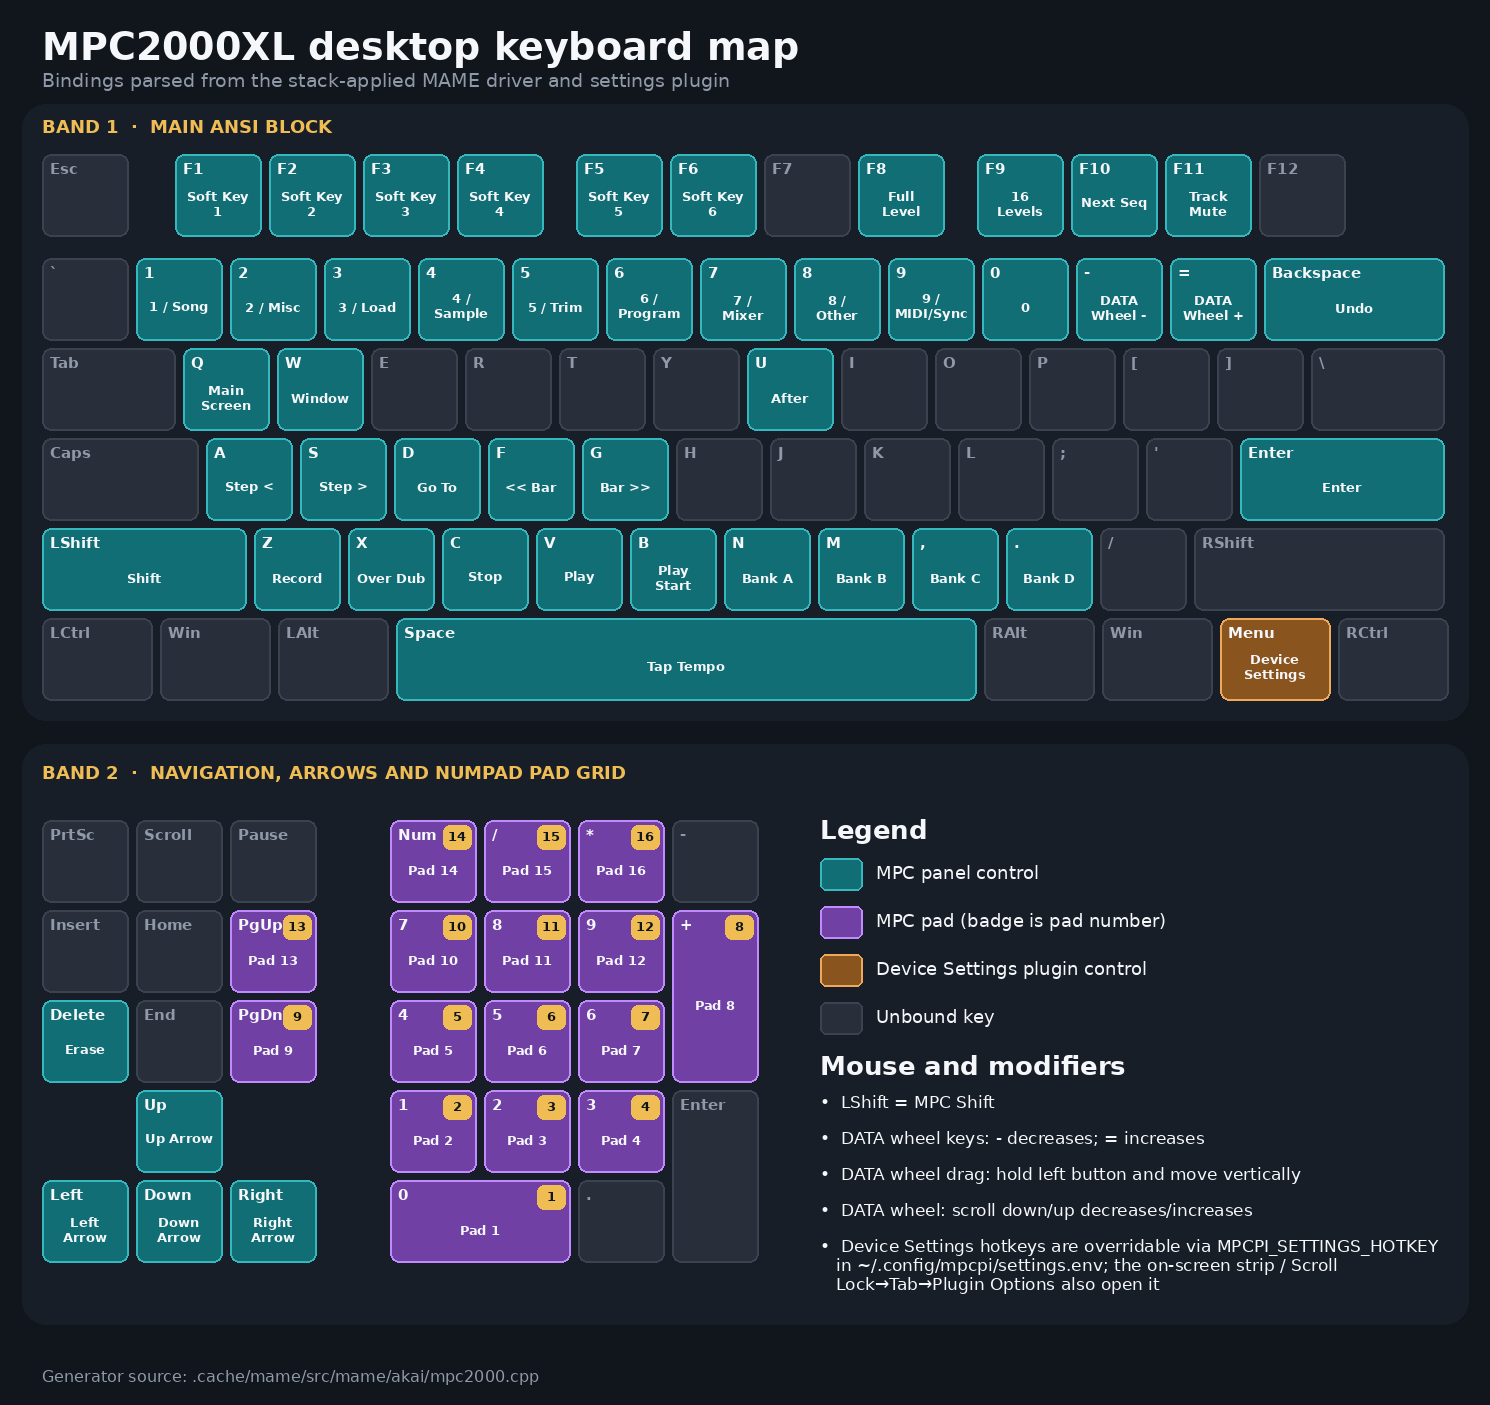
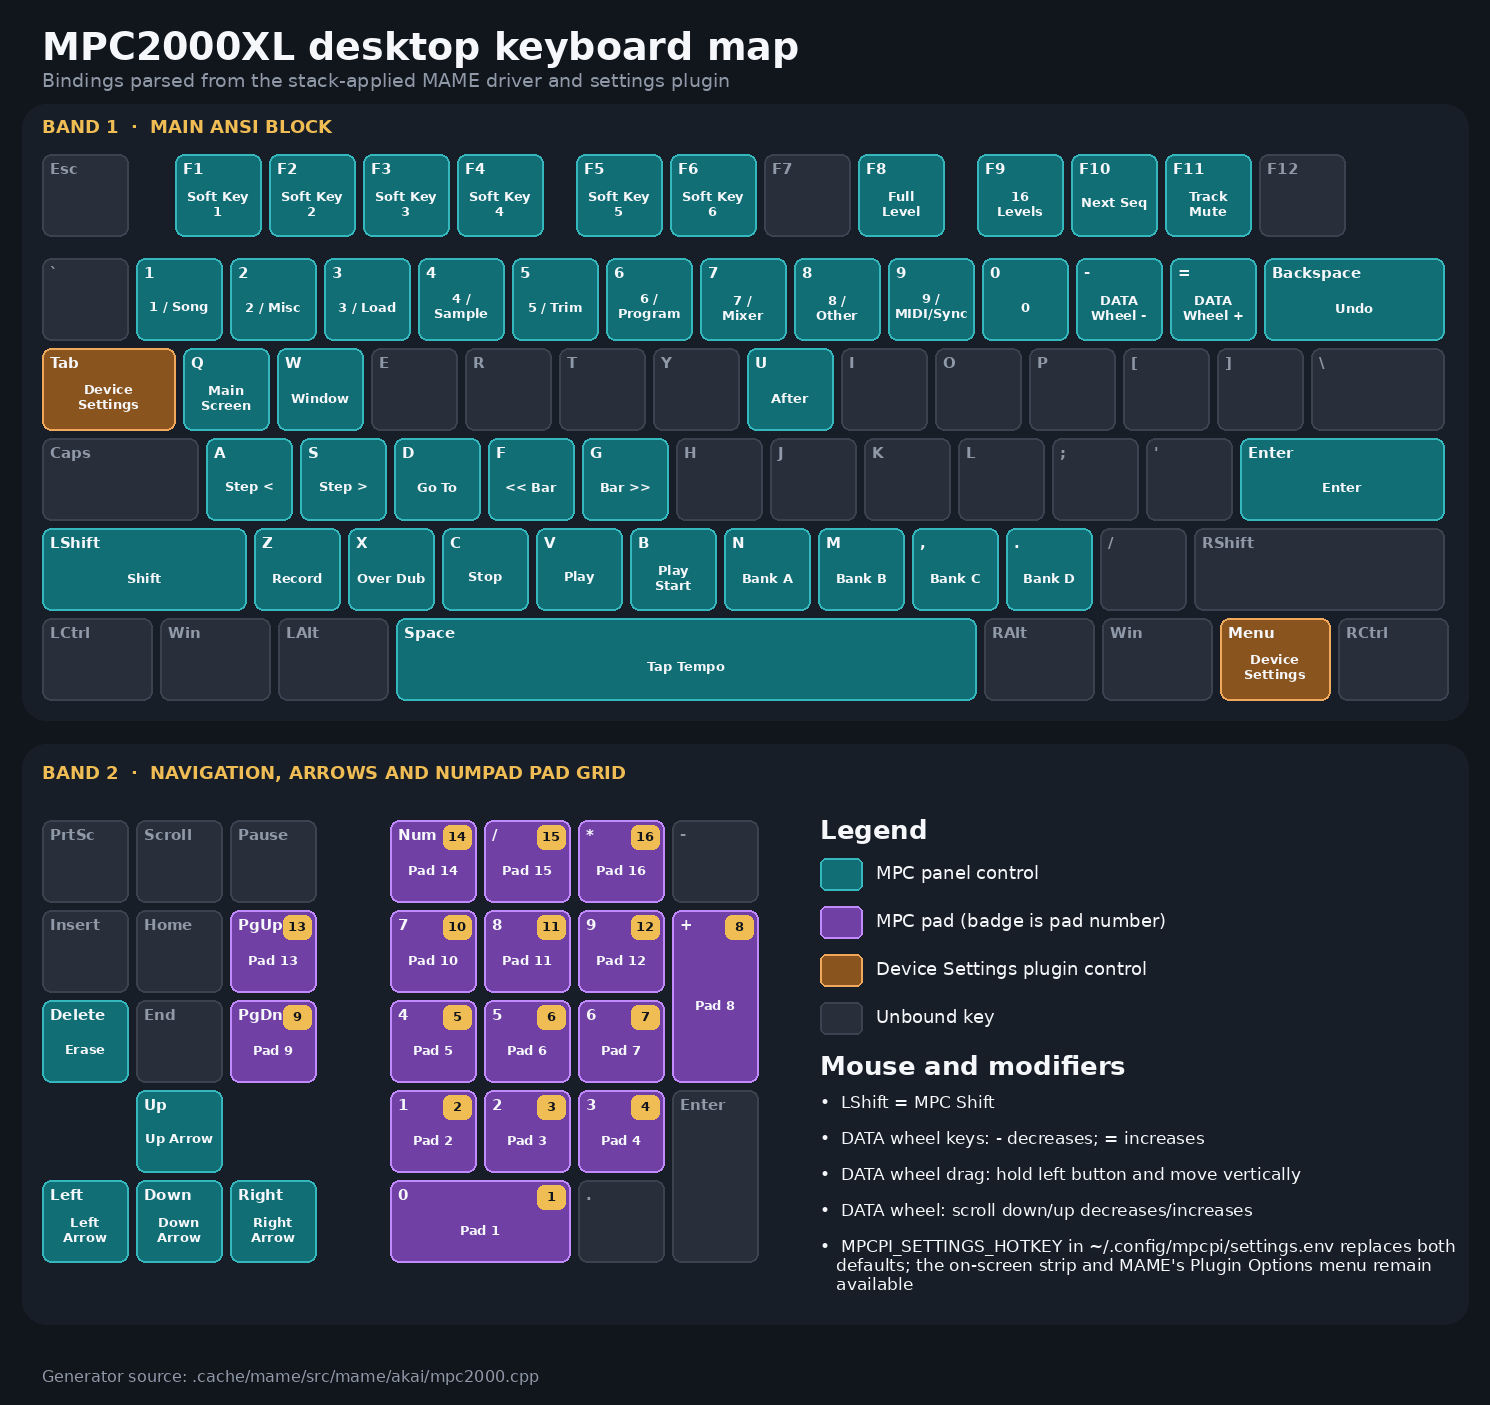
Open Device Settings with Tab outside MAME's UI

Changed region(s): [[0.5557, 0.8569, 0.957, 0.9181], [0.0309, 0.2448, 0.1235, 0.306]]

diff --git a/scripts/diagnostics/draw-keyboard-map.py b/scripts/diagnostics/draw-keyboard-map.py
@@ -426,9 +426,8 @@ def render(bindings: dict[str, str], plugin_controls: dict[str, bool],
     if scroll_enabled:
         notes.append("DATA wheel: scroll down/up decreases/increases")
     notes.append(
-        "Device Settings hotkeys are overridable via MPCPI_SETTINGS_HOTKEY in "
-        "~/.config/mpcpi/settings.env; the on-screen strip / Scroll Lock→Tab→Plugin "
-        "Options also open it"
+        "MPCPI_SETTINGS_HOTKEY in ~/.config/mpcpi/settings.env replaces both defaults; "
+        "the on-screen strip and MAME's Plugin Options menu remain available"
     )
     note_x = info_x
     draw.text((note_x, 1050), "Mouse and modifiers", font=font(26, True), fill=TEXT)

diff --git a/docs/desktop-cheatsheet.md b/docs/desktop-cheatsheet.md
@@ -169,10 +169,13 @@ three entries open the same menu at the relevant section, and work while MAME's
 keyboard UI remains switched off. The bar, full-menu click, direct disk click,
 normal panel click and normal panel key were verified on a private Xvfb display.
 
-The menu key remains supported, as does the configured fallback for a keyboard
-without one. For example, putting `MPCPI_SETTINGS_HOTKEY=KEYCODE_F12` in
-`~/.config/mpcpi/settings.env` makes F12 open the full menu; the wrapper exports
-sourced settings so the plugin receives it.
+Press **Menu** or **Tab** while MAME's UI is inactive to open Device Settings.
+After Scroll Lock enables MAME's UI, Tab opens only MAME's own menu; the plugin
+does not double-open. `MPCPI_SETTINGS_HOTKEY` replaces both defaults with one
+MAME input sequence. For example, putting
+`MPCPI_SETTINGS_HOTKEY=KEYCODE_F12` in `~/.config/mpcpi/settings.env` makes only
+F12 open the full menu; the wrapper exports sourced settings so the plugin
+receives it.
 
 ## 3. Load a floppy at launch
 
